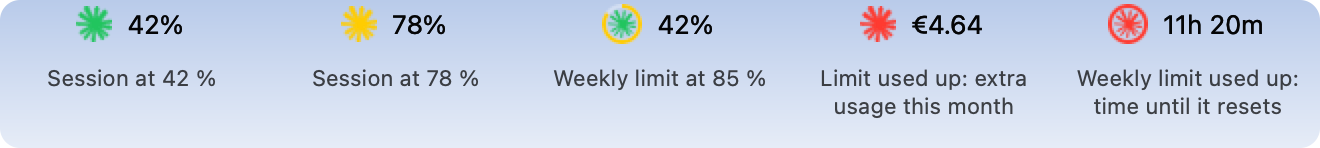
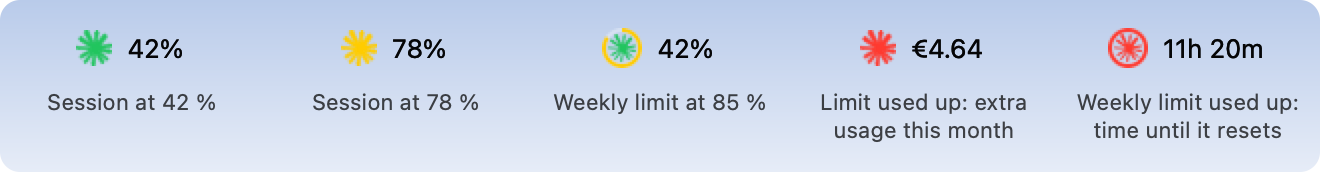
More space above the menu bar states

diff --git a/screenshots/main.swift b/screenshots/main.swift
@@ -294,8 +294,9 @@ let states: [(MenuBarState, String)] = [
 ]
 
 @MainActor func menuBarScreenshot(_ theme: Theme) {
-    let cell: CGFloat = 132, captionHeight: CGFloat = 30, gap: CGFloat = 8, bottom: CGFloat = 12
-    let size = CGSize(width: cell * CGFloat(states.count), height: menuBarHeight + gap + captionHeight + bottom)
+    let cell: CGFloat = 132, top: CGFloat = 12, gap: CGFloat = 8, captionHeight: CGFloat = 30, bottom: CGFloat = 12
+    let size = CGSize(width: cell * CGFloat(states.count),
+                      height: top + menuBarHeight + gap + captionHeight + bottom)
     let ctx = context(size)
     drawWallpaper(ctx, size, theme)
     let paragraph = NSMutableParagraphStyle()
@@ -303,7 +304,7 @@ let states: [(MenuBarState, String)] = [
     for (index, (state, caption)) in states.enumerated() {
         let item = menuBarItem(state, theme)
         let midX = cell * (CGFloat(index) + 0.5)
-        let midY = size.height - menuBarHeight / 2
+        let midY = size.height - top - menuBarHeight / 2
         draw(item, ctx, at: CGPoint(x: midX - item.size.width / 2, y: midY - item.size.height / 2))
         withAppKit(ctx) {
             NSAttributedString(string: caption, attributes: [
